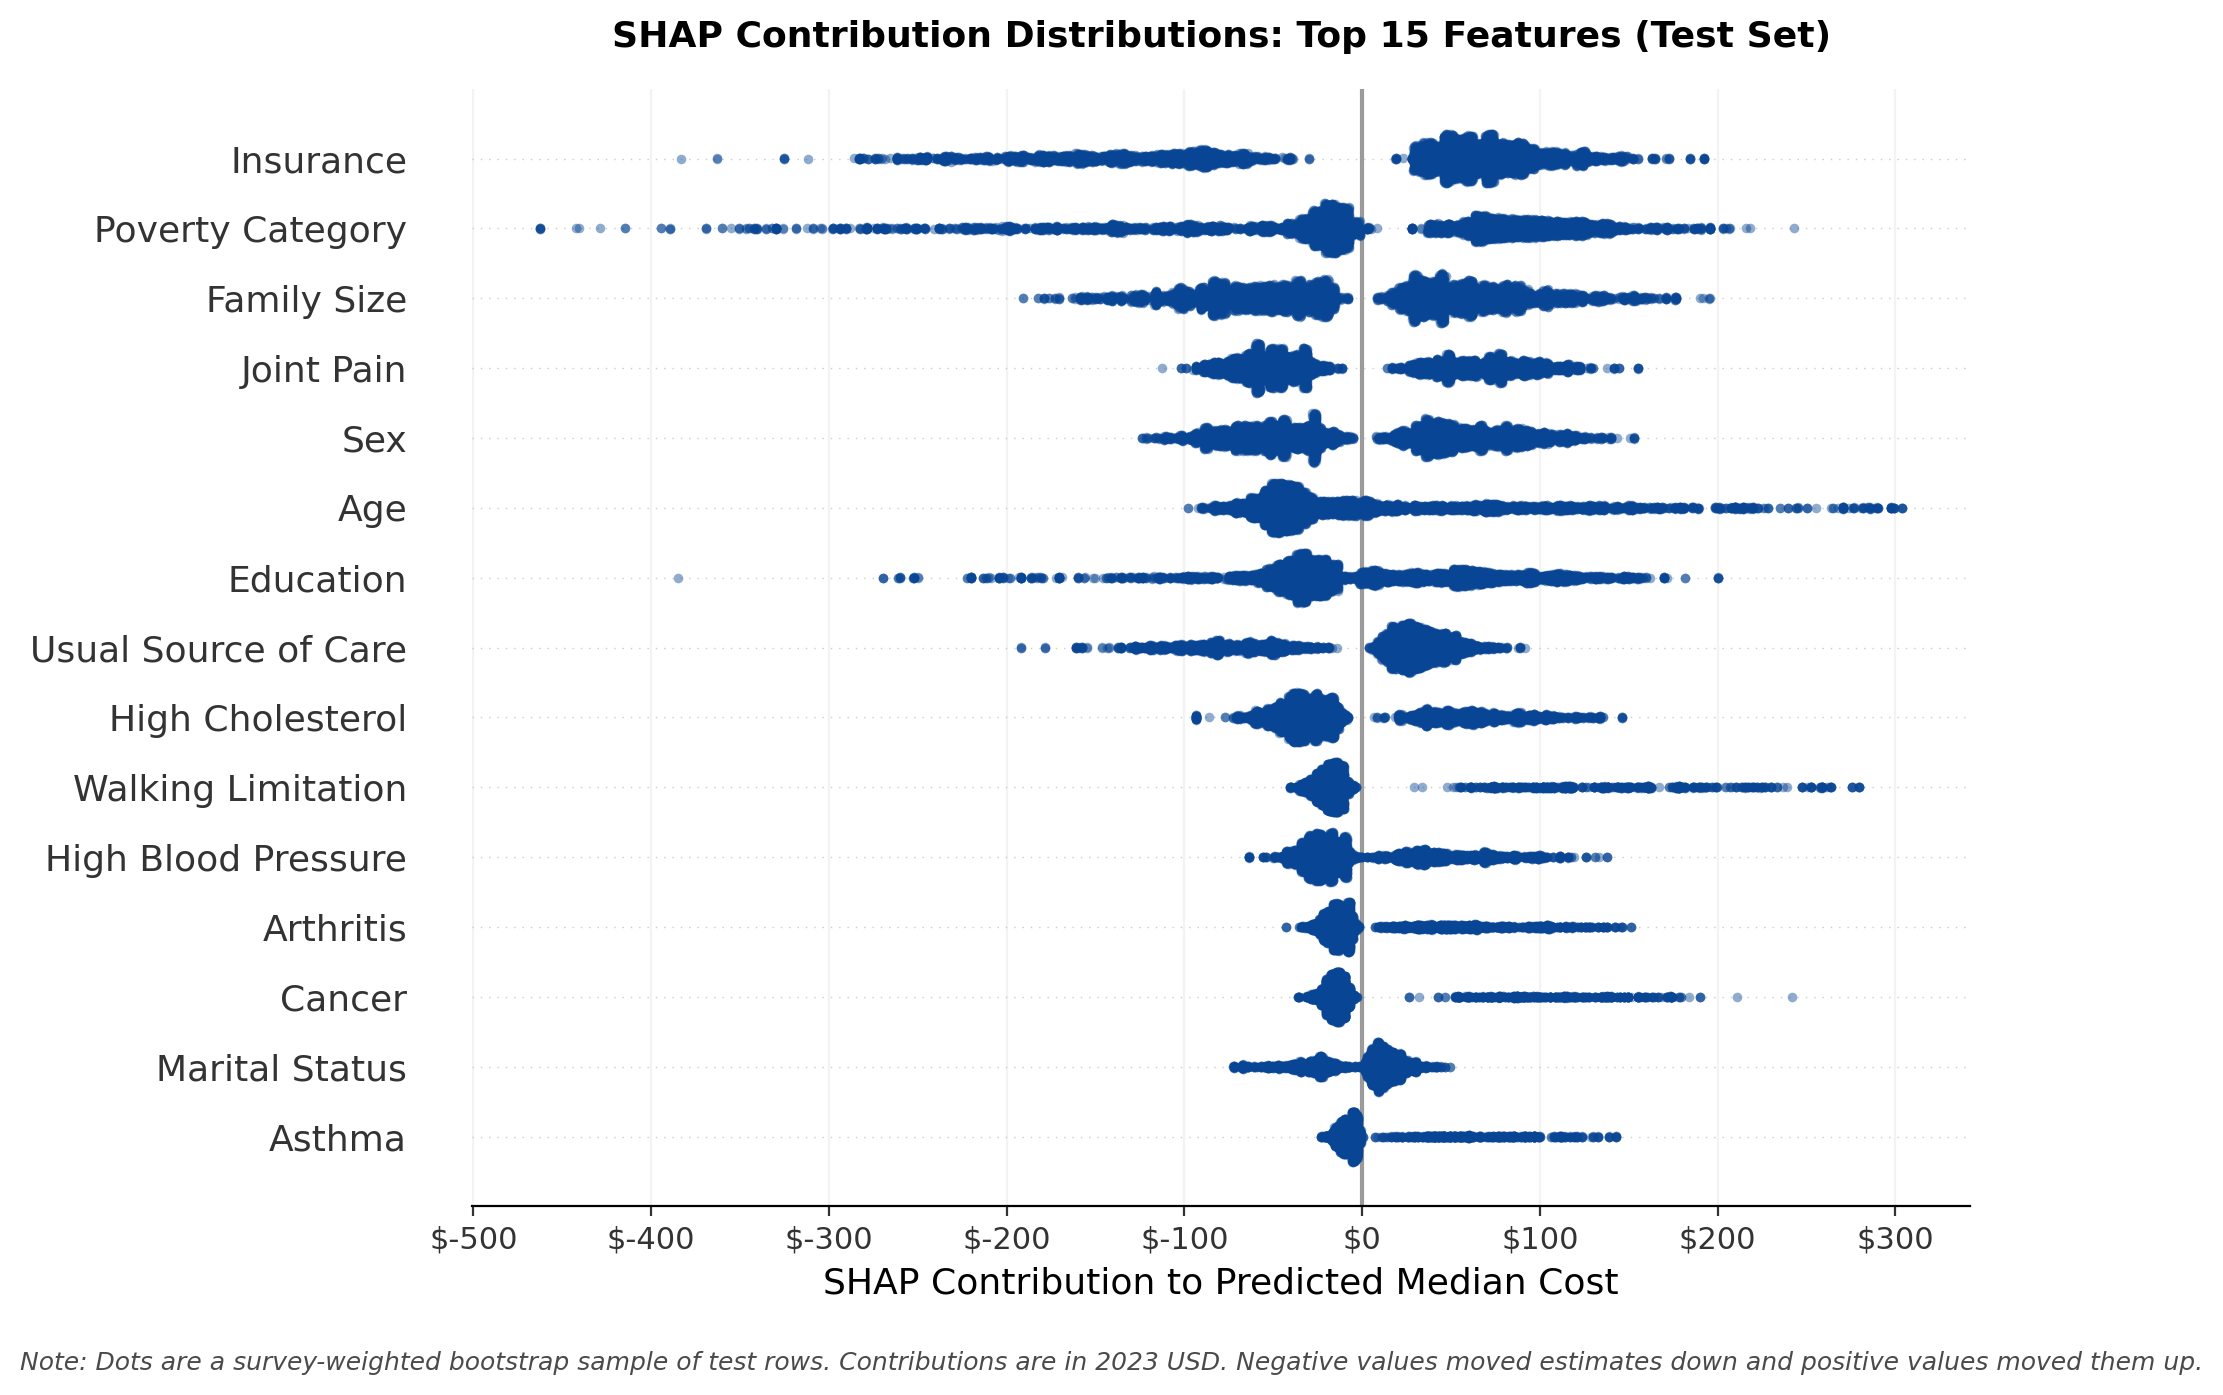
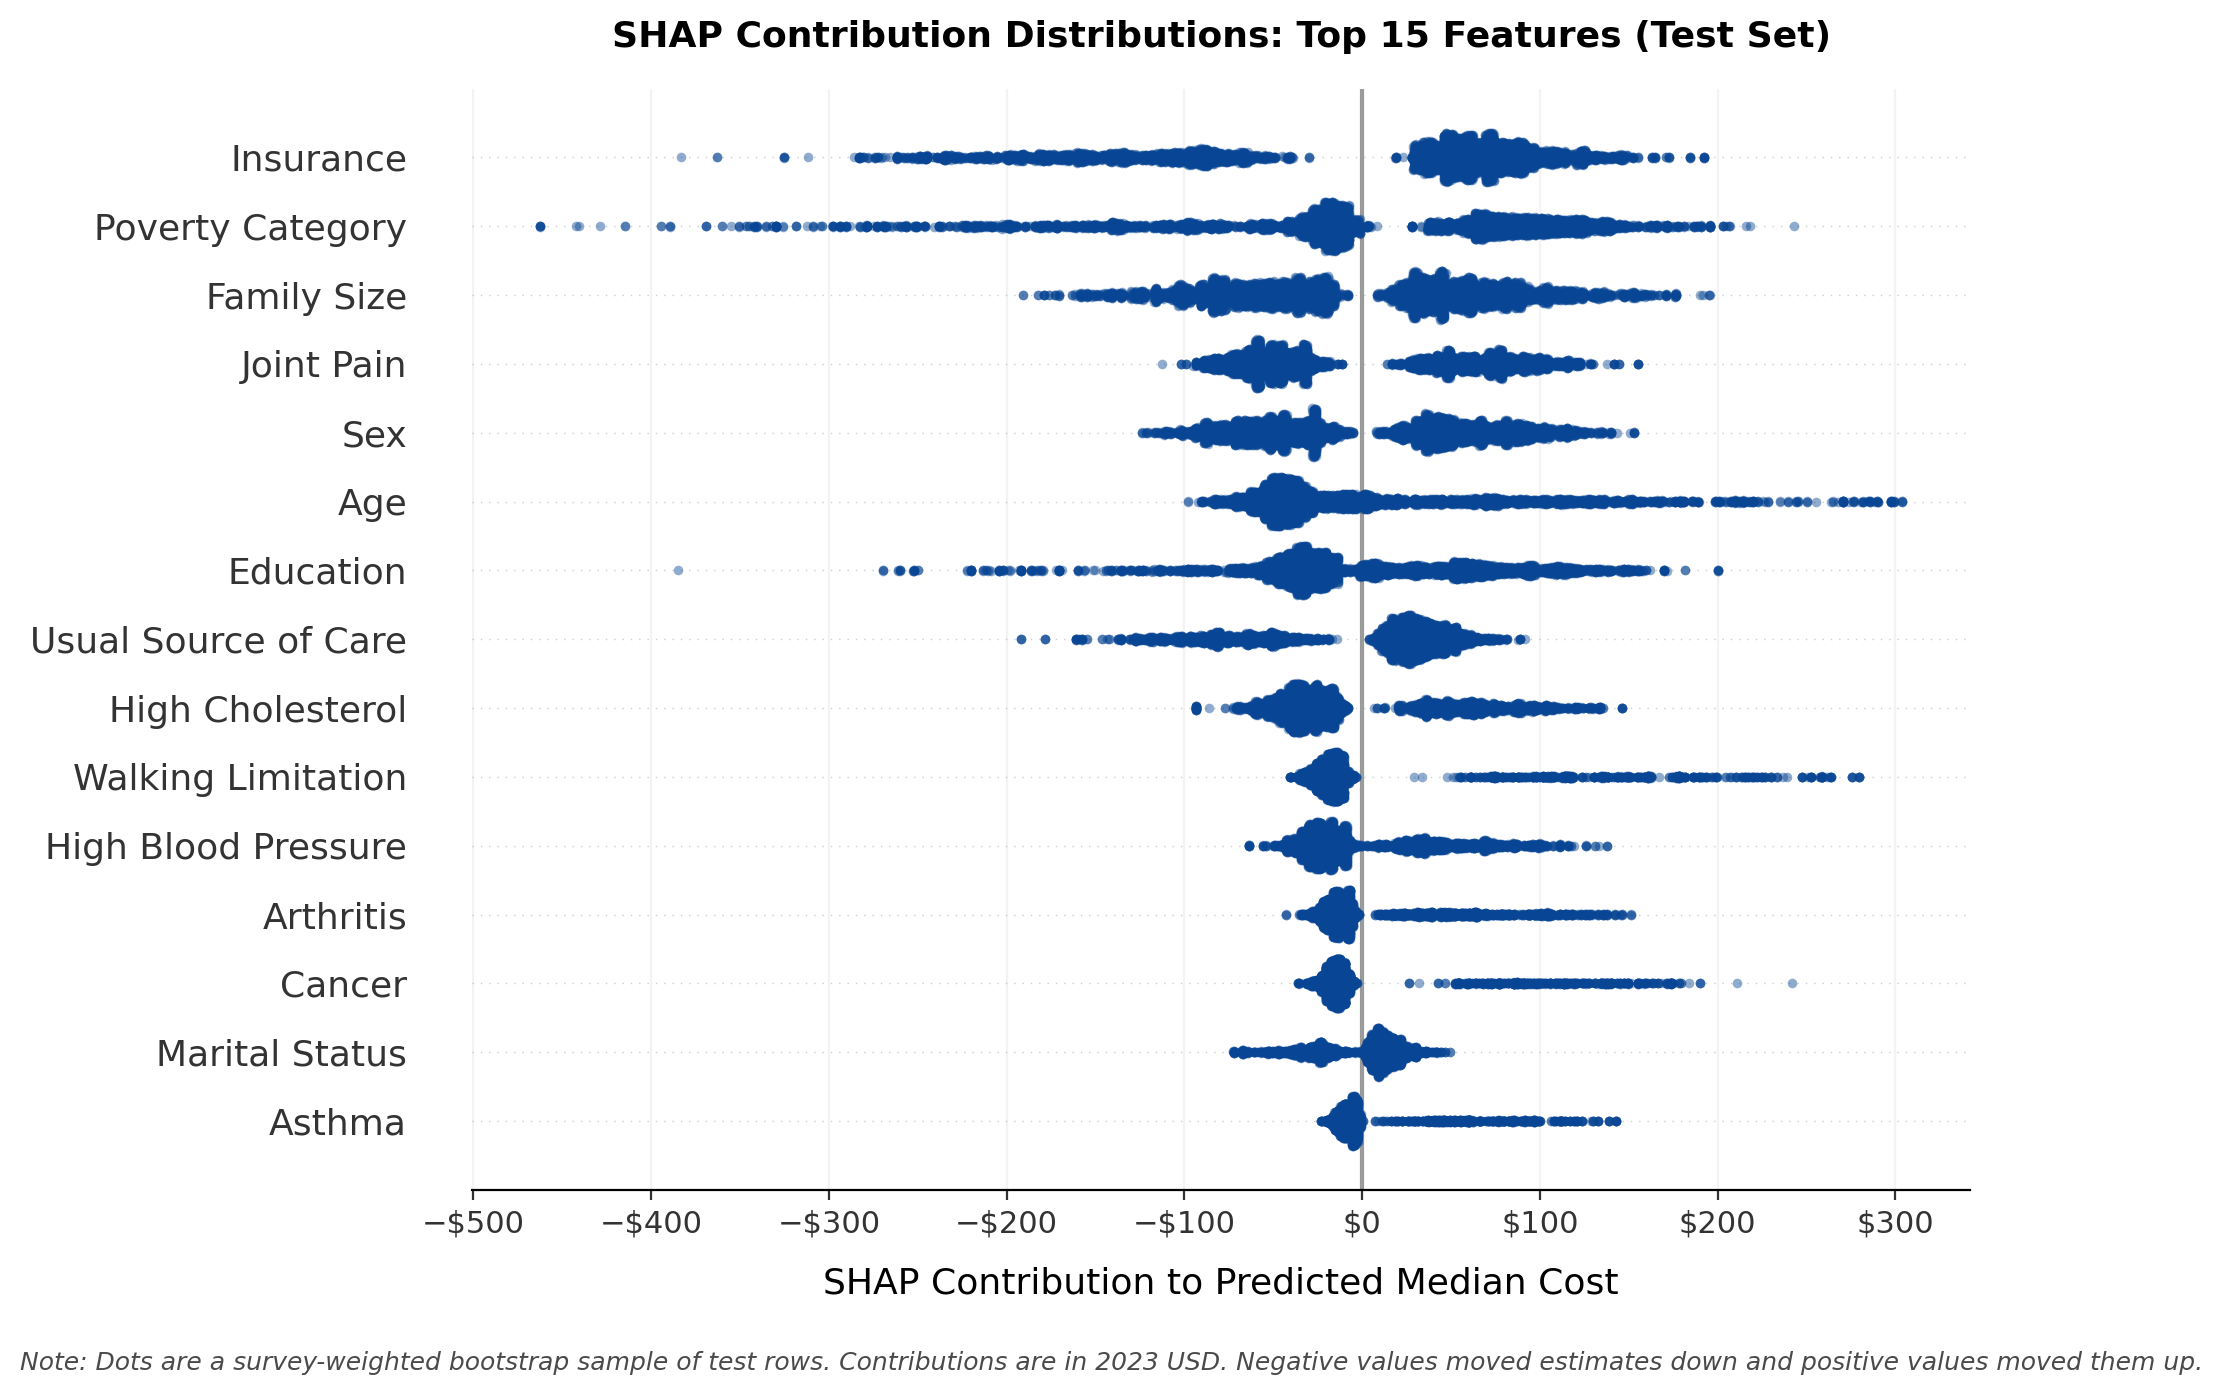
style(eval): fix USD signs in SHAP beeswarm plot

diff --git a/notebooks/2_modeling.py b/notebooks/2_modeling.py
@@ -5701,7 +5701,7 @@ shap_beeswarm_explanation = shap.Explanation(
 # Create beeswarm plot
 fig, ax = plt.subplots(figsize=(10, 7))
 
-# SHAP uses NumPy's global random state for dot jitter. Preserve the notebook's state while making the saved plot reproducible.
+# Make SHAP's dot jitter reproducible without changing NumPy's global random state.
 numpy_random_state = np.random.get_state()
 np.random.seed(RANDOM_STATE)
 try:
@@ -5727,9 +5727,13 @@ ax.set_title(
     fontweight="bold",
     pad=15,
 )
-ax.set_xlabel("SHAP Contribution to Predicted Median Cost")
+ax.set_xlabel("SHAP Contribution to Predicted Median Cost", labelpad=10)
 ax.xaxis.set_major_formatter(
-    plt.FuncFormatter(lambda value, _: f"${value:,.0f}")
+    plt.FuncFormatter(
+        lambda value, _: (
+            f"−${abs(value):,.0f}" if value < 0 else f"${value:,.0f}"
+        )
+    )
 )
 ax.grid(axis="x", alpha=0.15)
 ax.set_axisbelow(True)
